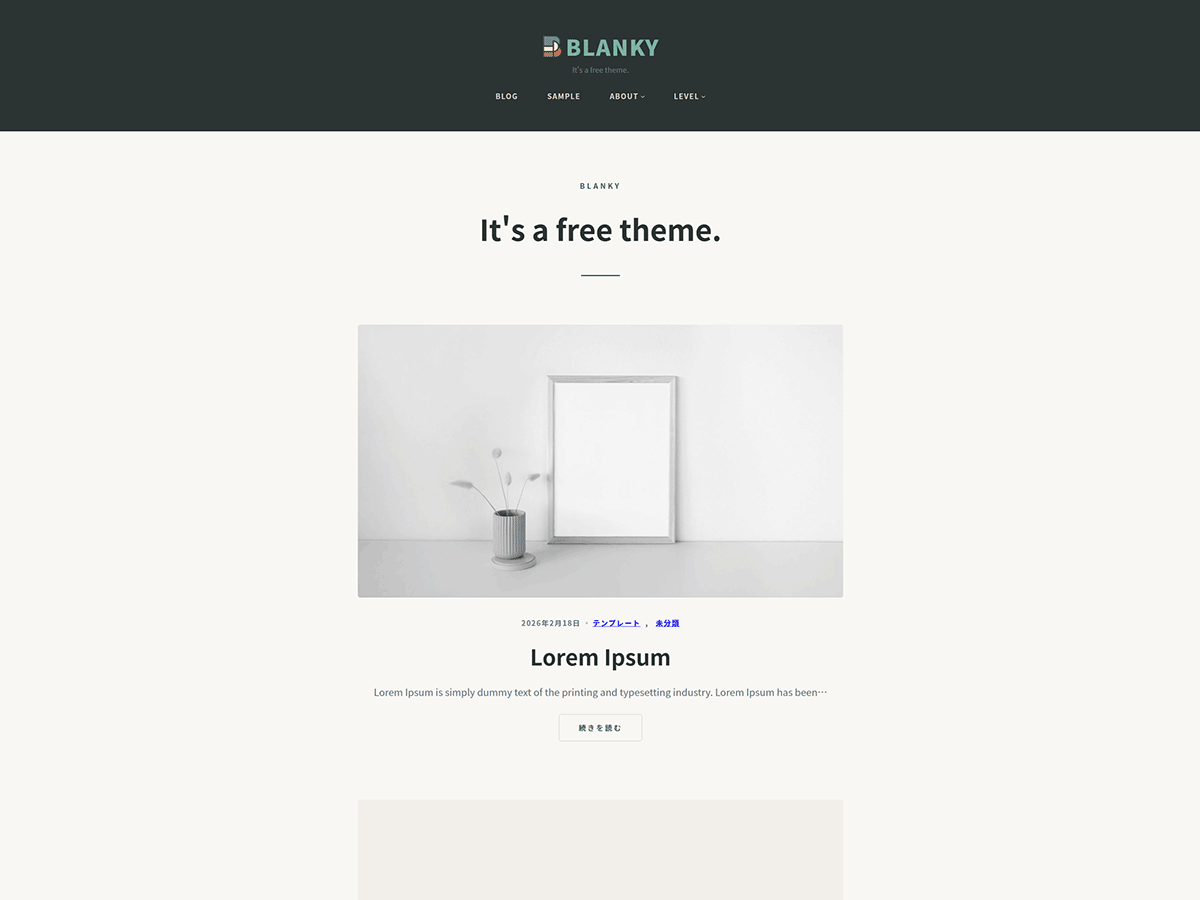
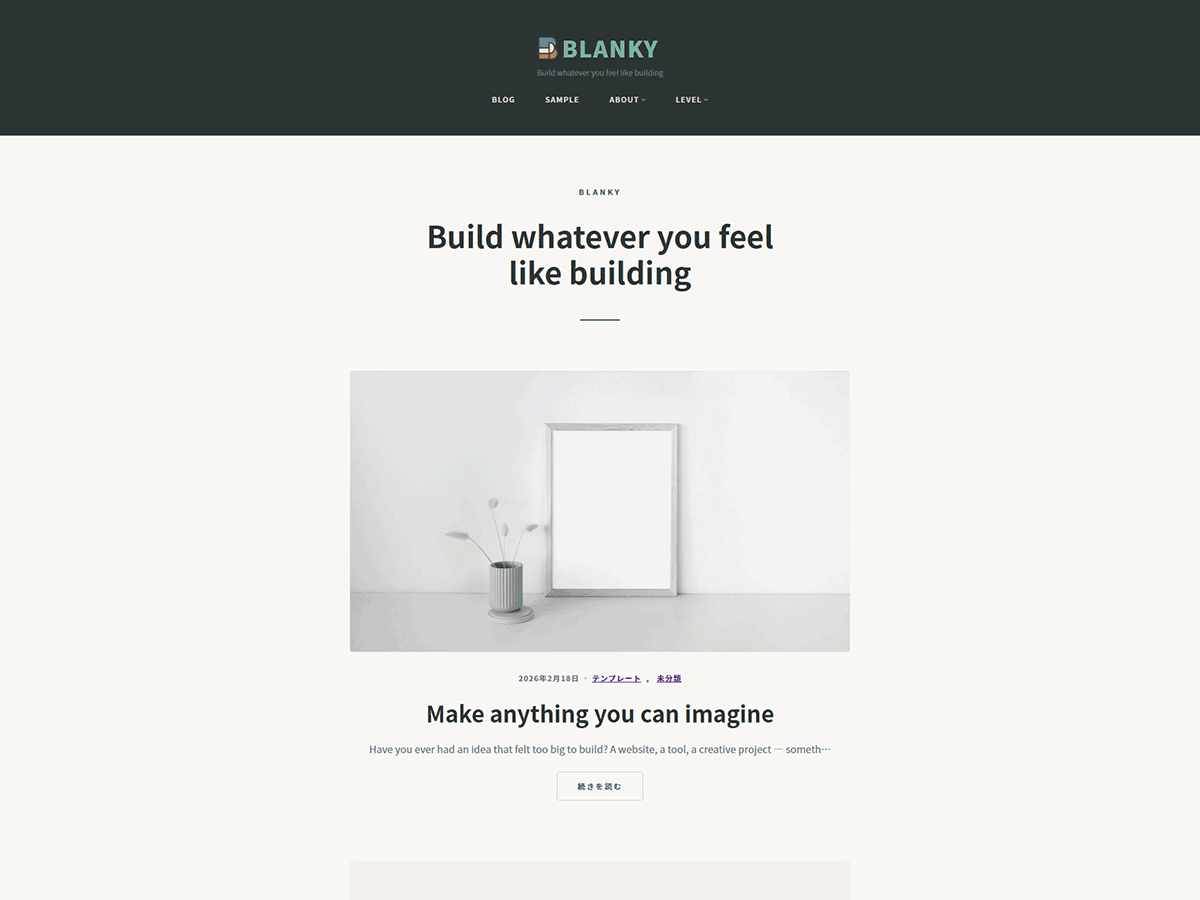
via1.6 up

diff --git a/style.css b/style.css
@@ -3,7 +3,7 @@ Theme Name: Blanky
 Author: miroku
 Author URI: https://profiles.wordpress.org/369work/
 Description: Blanky is a minimal, clean block theme for WordPress. It provides a simple blank canvas with sensible CSS resets, a flexible theme.json, and essential templates — ready to customize as your own.
-Version: 1.5
+Version: 1.6
 Requires at least: 6.6
 Tested up to: 6.9
 Requires PHP: 7.4
@@ -440,7 +440,7 @@ input[type="radio"]:focus-visible {
     flex-shrink: 0;
     white-space: nowrap;
     color: var(--wp--preset--color--muted);
-    min-width: max-content; 
+    min-width: max-content;
 }
 
 .blanky-article-meta .wp-block-post-terms::before {

diff --git a/functions.php b/functions.php
@@ -57,28 +57,29 @@ function blanky_enqueue_scripts() {
 add_action( 'wp_enqueue_scripts', 'blanky_enqueue_scripts' );
 
 /**
- * アイキャッチ未設定時のフォールバック プレースホルダーを挿入する。
+ * Insert a fallback placeholder when no featured image is set.
  *
- * WordPress の core/post-featured-image ブロックはアイキャッチが
- * 設定されていない場合に空文字列を返すため、CSS の :not(:has(img)) では
- * 対応できない。render_block フィルターで代替 HTML を挿入する。
+ * WordPress core/post-featured-image block returns an empty string
+ * if no featured image is set,
+ * so CSS :not(:has(img)) cannot handle it. Use the render_block filter
+ * to insert alternative HTML.
  *
- * @param string $block_content レンダリング済み HTML。
- * @param array  $parsed_block  パース済みブロック情報。
+ * @param string $block_content Rendered HTML.
+ * @param array  $parsed_block  Parsed block information.
  * @return string
  */
 function blanky_featured_image_fallback( $block_content, $parsed_block ) {
-	// 対象ブロック以外はスキップ
+	// Skip blocks other than the target
 	if ( 'core/post-featured-image' !== $parsed_block['blockName'] ) {
 		return $block_content;
 	}
 
-	// アイキャッチがある場合はそのまま返す
+	// If there is an eye-catcher, return it as is
 	if ( ! empty( $block_content ) ) {
 		return $block_content;
 	}
 
-	// blanky-monotone など既存クラスを引き継ぐ
+	// blanky-monotone
 	$extra_class = '';
 	if ( ! empty( $parsed_block['attrs']['className'] ) ) {
 		$extra_class = ' ' . esc_attr( $parsed_block['attrs']['className'] );
@@ -86,7 +87,7 @@ function blanky_featured_image_fallback( $block_content, $parsed_block ) {
 
 	$placeholder_label = esc_attr__( 'No featured image', 'blanky' );
 
-	// 画像アイコン SVG（アクセシビリティ: aria-hidden）
+	// Image Icon SVG (Accessibility: aria-hidden)
 	$svg = '<svg xmlns="http://www.w3.org/2000/svg" viewBox="0 0 24 24" fill="none"'
 		. ' stroke="currentColor" stroke-width="1.5" stroke-linecap="round" stroke-linejoin="round"'
 		. ' aria-hidden="true" focusable="false">'
